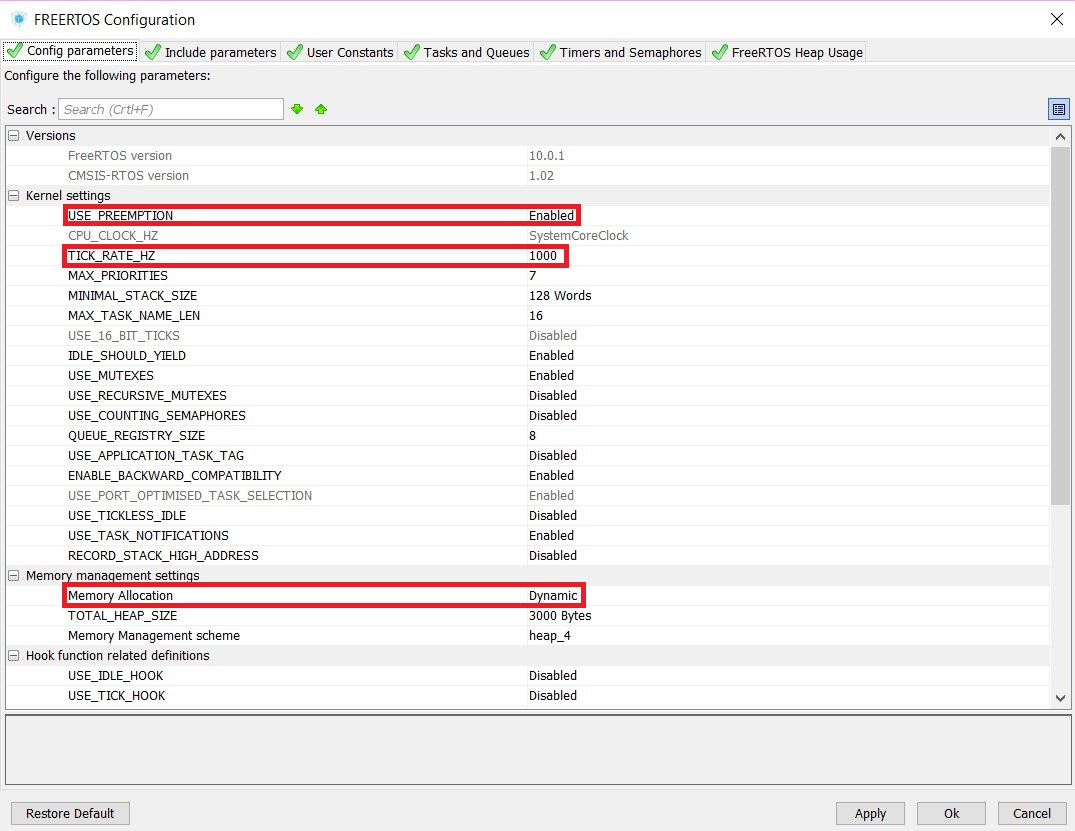
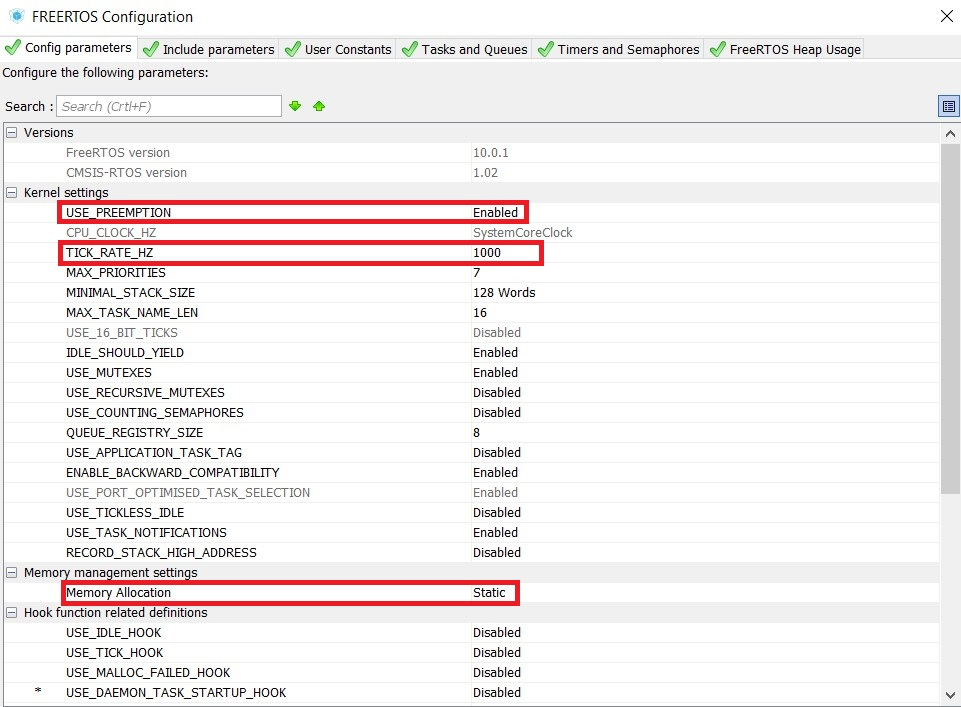
Minor changes to mainpage + FreeRTOS wiki images
mainpage.md
- Say that UART5 is used for the PC comm link
- Correct a typo ("rests" instead of "tests")
- Mention that we have different threads for each daisy chain

FreeRTOS wiki
- Make the pics more consistent with the text (re: os config settings)

Former-commit-id: 0387b180357b931c43515e2429acfc3bdaf73cc7 [formerly 18f6dc45b4c15c7718baa8b87857861c132eaae6]
Former-commit-id: b91d981e7867b76cd49edece70424bf3e441006d

diff --git a/docs/mainpage.md b/docs/mainpage.md
@@ -7,7 +7,7 @@ This page contains some high-level descriptions of
 how this software works. More details for each module can be found by browsing the Modules and Data Structures sections.
 To return to UTRA's website, <a href="http://utrahumanoid.ca/">click here</a>.
 
-Our robot consists of 2 main computing solutions: a NVidia Jetson TX2 which runs the high-level software for controls and AI, and a STMicroelectronics 32-bit microcontroller. At a glance, the microcontroller software is responsible for:
+Our robot consists of 2 main computing solutions: a Nvidia Jetson TX2 which runs the high-level software for controls and AI, and a STMicroelectronics 32-bit microcontroller. At a glance, the microcontroller software is responsible for:
 -# Controlling the 18 actuators which form the robot's joints
 -# Gathering sensor data
 -# PC communication for receiving actuator commands and transmitting sensor data
@@ -24,10 +24,10 @@ A STM32F446RE microcontroller on a custom PCB designed by the electrical team wa
 
 ## Threads
 The software consists of 10 threads (note: priority = 6 is the highest priority while priority = 0 is the lowest priority):
--# **RX, priority 6**: event-based, receives command packets from PC 
--# **TX, priority 5**: sends packets to the PC consisting of sensor data
+-# **RX, priority 6**: event-based, receives command packets from PC through UART5
+-# **TX, priority 5**: sends packets consisting of sensor data to the PC through UART5
 -# **Command, priority 2**: event-based, parses the RobotGoal structure received by the RX thread and distributes read and write commands to the various UART threads
--# **UARTx (x=1,2,3,4,6), priority 3**: event-based, sends read and write commands sent from the Command thread to the motors
+-# **UARTx (x=1,2,3,4,6), priority 3**: event-based, sends read and write commands sent from the Command thread to the motors. One thread is used for each daisy chain of motors
 -# **MPU6050, priority 3**: time-triggered, reads acceleration and angular velocity and digitally filters angular velocity
 -# **default, priority 0**: CubeMX-generated function that immediately sleeps
 
@@ -56,7 +56,7 @@ After all sensors (we can generalize the smart servos as a sensor for this discu
 
 
 # Plans for the Future
-Our plans for the future are focussed on modularizing the system to reduce coupling between system components and generally improve flexibility. One major point of discussion has been a more flexible PC interface, and a _faster_ PC interface too since latency measurements proved 230,400 symbol/s UART was accounting for nearly 80% of the PC-MCU control cycle latency. <a href="https://github.com/utra-robosoccer/soccer-embedded/issues/47">Recent rests with Ethernet</a> have proven the potential to reduce this number to about 5% (wow!). We are currently re-writing our code base in C++ and are using Google Test/Mock to ensure code quality _and_ make it easier for us to develop our software with limited hardware resources (we only have 1 robot, after all!). It is our belief that if we can test all the parts of our code which do not depend on hardware or the OS from the comfort of our PCs, it will speed up our development process.
+Our plans for the future are focussed on modularizing the system to reduce coupling between system components and generally improve flexibility. One major point of discussion has been a more flexible PC interface, and a _faster_ PC interface too since latency measurements proved 230,400 symbol/s UART was accounting for nearly 80% of the PC-MCU control cycle latency. <a href="https://github.com/utra-robosoccer/soccer-embedded/issues/47">Recent tests with Ethernet</a> have proven the potential to reduce this number to about 5% (wow!). We are currently re-writing our code base in C++ and are using Google Test/Mock to ensure code quality _and_ make it easier for us to develop our software with limited hardware resources (we only have 1 robot, after all!). It is our belief that if we can test all the parts of our code which do not depend on hardware or the OS from the comfort of our PCs, it will speed up our development process.
 
 Part of the reason for these changes is self-evident while another part is more internal to our organization. Each team has to work together to make sure each others' needs are met, and these needs often evolve after development begins. Examples of this are that the controls team has indicated a desired to add pressure sensors, the electrical team is working on creating custom servo motors to reduce costs, and the reinforcement learning team has indicated a need to control the actuators via velocity control. Although these are all features we will be working on developing in the future, they also have cemented our convictions that a modular program structure will be essential to our future success.
 
